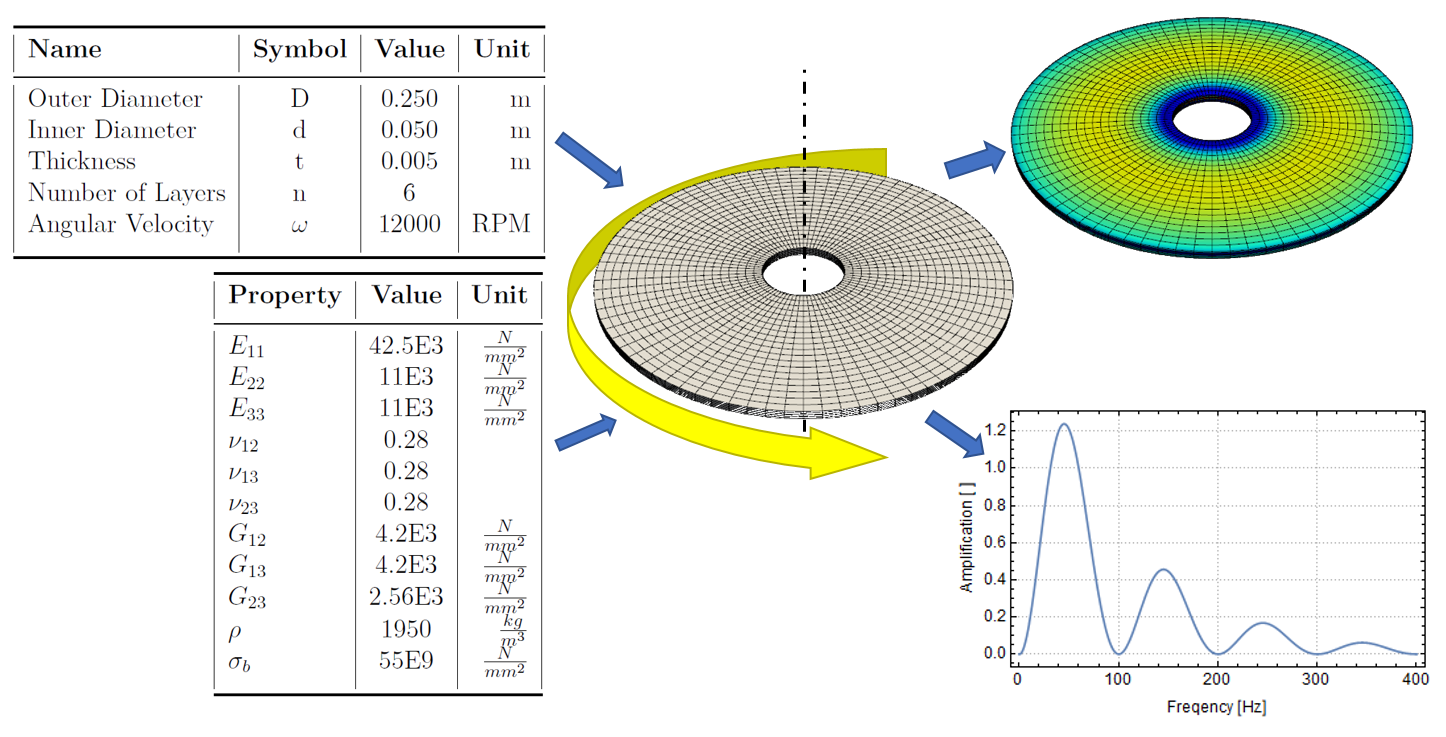
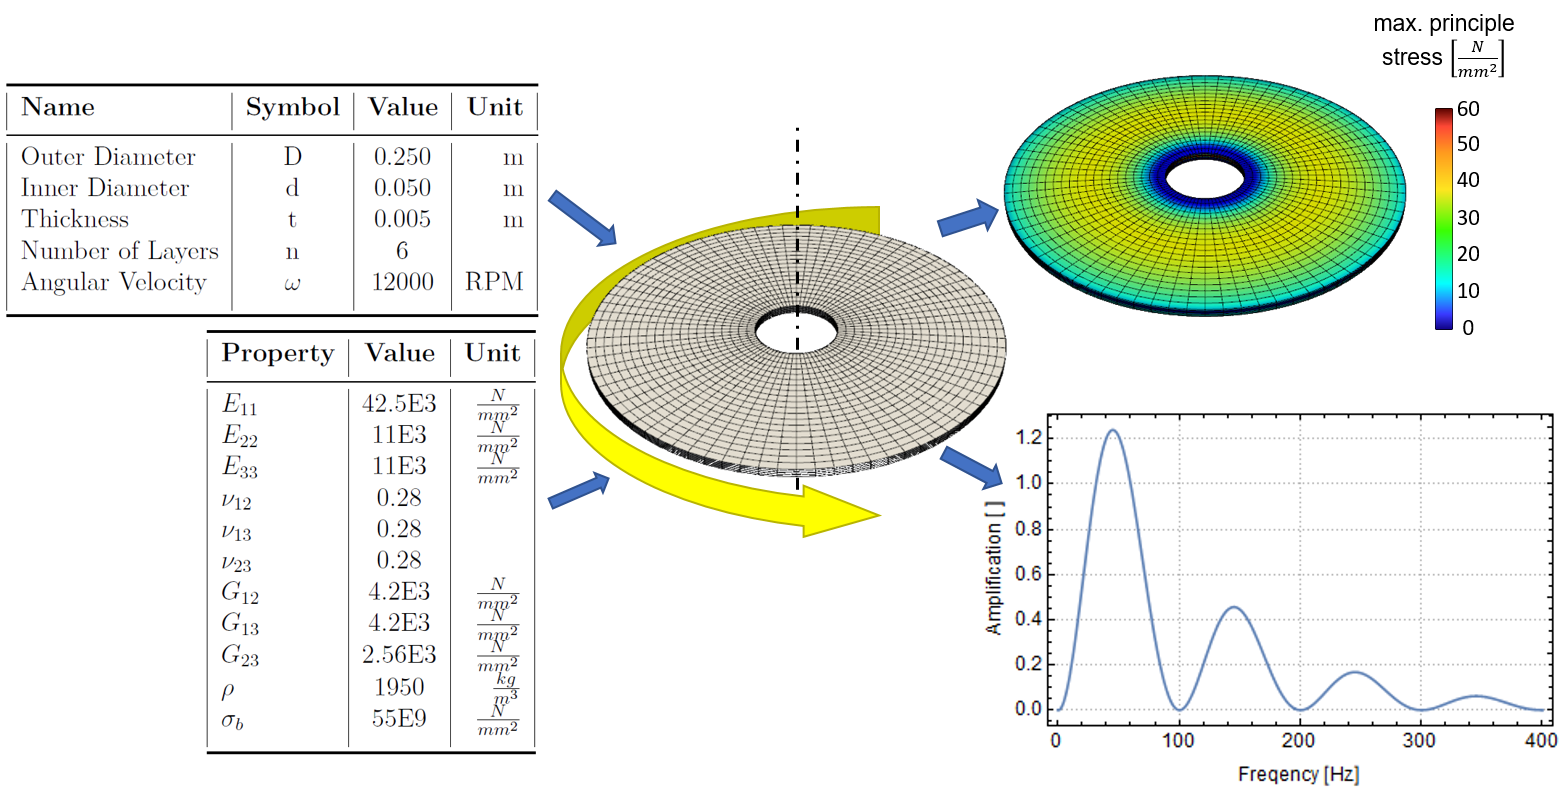
review

Changed region(s): [[0.0, 0.0, 1.0, 0.9986], [0.3734, 0.1872, 0.4357, 0.2497]]

diff --git a/src/results.tex b/src/results.tex
@@ -1,14 +1,17 @@
 \section{Results}
-The first capability of the introduced system to proof is 
-to solve complex interactions and iterations loops that are of a non-linear kind.
-Therefor a material hoists is chosen, 
-due to the fact that the motor weight adds 
+The finished system implementation can be found at Github under \emph{https://github.com/Modular-Design}.
+To support the multifunctional design process, the proposed solution has been focusing on two main capabilities,
+which are separately tested and demonstrated below.
+\subsection{Solving Complex Dependencies}
+The first capability of the introduced system is 
+to solve complex interactions and iterations loops that are characterized by a certain degree of non-linearity.
+Therefor a material hoists is chosen, due to the fact that the motor weight adds 
 to the overall weight of the lift (Fig. \ref{pic:lift_model}), 
-hence causing a simple iteration loop.
-With current methods eigenweight problems in the part design are often simplfied 
-by over estimating the total load on the motor.
-This over estimation garants a safty tolerance.
-In cases where mass reduction is crutial like in aircraft and space applications, this is often not an option.
+hence causing a dependency loop.
+With current methods, eigenweight problems in the part design are often simplified 
+by overestimating the total load on the motor.
+This results in a higher safety tolerance, but also increases the overall weight.
+In cases where mass reduction is crucial like in aircraft and space applications, this is often not an option.
 \begin{figure}[h]
     \centering
     \begin{subfigure}[b]{0.55\textwidth}
@@ -25,47 +28,50 @@ In cases where mass reduction is crutial like in aircraft and space applications
     \caption{\label{pic:lift} Designing of a material lift with the introduced framework.}
 \end{figure}\\
 Modelling the complex interaction of the hoist parts with the developed software allows to automatically update, change and test the current configuration.
-Therefor the simplified model is broken into several process, each describing the individual parts and their influence on different parameters of the hoist (Fig. \ref{pic:lift_solu}).\\
-The motor process in figure \ref{pic:lift} represents the selection process of a new motor, based on the minimum torque, RPM, power or maximum mass.
-Realistically, determining the motor properties would be done by searching in a database, but open motor databases have many restrictions.
-Therefor this program calculates a motor based on a simple motor model.\\
-The base of the hosit is represented by two systems:
-The CAD-Base changes a simplified CAD model (Fig. \ref{pic:lift}).
-The generated file is then  transfered to the simulation process.
-There the inserted loads are applied to the model and the relevant stresses are outputed.\\
-Against the usual material hosits with a high tolerance for failure,
-the system is with safety factor of 1.2 more on the lightweight spectrum.
-The developed system needed, depending on the initial configuration, up to 12 iteration (each iteration needs about 1 min to fully compute on a normal laptop) to find the solution.
-Designing a system with a eigenweight problem and a small safety normally takes a long time.
-Hence it is difficult to find suitable reference data, the following assumtion can be made.
+Following the guidelines for light weight design process, the simplified model is broken down into several process, each describing the individual parts and 
+their influence on different parameters of the hoist (Fig. \ref{pic:lift_solu}).\\
+The motor process in Figure \ref{pic:lift} represents the selection process of a new motor, 
+based on the minimum torque, RPM, power or maximum mass.
+Realistically, determining the motor properties would be conducted by searching in a database, 
+but open motor databases have many restrictions.
+To keep the system simple and intuitive 
+it was decided to determine the new motor based on a simple motor model.\\
+Besides the motor, the designing of the baseplate is crucial to the overall structural integrity.
+During the design process this is taken into account, by using two systems to represent separate aspects of the baseplate:\\
+The CAD-Base is used to digital model the plate and change certain dimensions (Fig. \ref{pic:lift}).
+This results in a CAD file being generated, which is then transferred to the simulation process.
+There the inserted loads are applied to the model and the relevant stresses are computed.\\
+The three main modules are distributed over the system and been accessed via a network communication.
+To help modeling the complex functional dependencies additional math modules are used.
+Due to lower hardware requirements, math modules are often provided locally.\\
+Additionally to the high number of interactions, the safety margin was reduced to a value of 1.2 to 
+artificially increase the number of iteration cycles.\\
+With the developed system, a solution was found, depending on the initial configuration, within 12 iteration (each iteration needs about 1 min to fully compute on a normal laptop).
 By assuming that each step takes 30 min per iterations, solving the same problem by hand would take up to 6h instead of 12 min by the program.\\
-But the seen time savings have to be taken with care.
-In the proposed problem it is assumed that both, manual and automated solutions uses the same infrastructure of pre-build simulations, constructions, etc. that are not taking into the overall time.
-Further, the automated process uses data interfaces to reuse the CAD-model in the simulation process.
-Other usecases might require custom conversion and representations interfaces, hence increasing the setup time of such a system.\\
-The material lift is not suited to show a complex optimization problem.
-Thats why a further use cases is introduced, 
-in which an optimal layer composition of a 
-high-speed glass fibre composite(GFC)-rotor has to be determined (Fig. \ref{pic:rotor_model}).
+While this assumption does not account for additional time, such as the model creation or implementing custom interfaces, 
+due to a lack of quantifiability, it can still be used to hint on the potential of major time savings. 
+
+\subsection{Global Optimization}
+The capability to compute optimal solutions to complex scenarios is shown 
+on a multilayered high-speed glass fibre reinforced plastics (GFRP)-rotor,
+in which an optimal layer composition has to be determined (Fig. \ref{pic:rotor_model}).
 High-speed composite rotors undergo inhomogeneous and variable stress states induced
-by centrifugal forces, which are mainly characterised by multi-axial tension and shear
-loads, \cite{filippatos_damage_2017}.
-The observed damage behavior is closely joint with the composition of the fibre-matrix, 
+by centrifugal forces, which are mainly characterized by multi-axial tension and shear
+loads \cite{filippatos_damage_2017}.
+The observed damage behaviour is connected with the composition of fibre and matrix, 
 what increases the structural complexity.
-Furthermore, compression loads can be caused by impact loads leading to inter-fibre failure and delamination \cite{Boehm2010, Thieme2014, Hufenbach2006}.
+Furthermore, compression loads can be caused by impact loads leading to 
+inter-fibre failure and delamination \cite{Boehm2010, Thieme2014, Hufenbach2006}.
 The dynamic response of rotors is further affected by the apparent stiffening from
 the applied centrifugal forces. 
 Consequently, the analysis and description of the damage
-and dynamic behavior usually requires more complex approaches for high-speed composite
+and dynamic behaviour usually requires more complex approaches for high-speed composite
 rotors than for similar stationary structures \cite{filippatos_damage_2017}.\\
-The interaction of load induced structural and damage behavior, lead to many opportunities for different optimization approaches. 
-This example is designed to show and validate the optimization of to properties which negate each other.
-Therefore, the rotor will be designed to sustain a certain angular velocity, while not starting to vibrate to the rotor oscillation.
-The rotor is a simple disk with an outer and inner diameter, a constant height.
-In this use case the rotor should, similar to \cite{Filippatos2021}, consist of only unsymmetrically layer compositions.
-Each layer consists of unidirectional GFK-fibre material,
-which can be oriented in radial or tangent direction.
-Further, it is assumed that the material will instantly break if the first principle stress reach a the point of rupture.
+The rotor is a simple disk which rotates with a constant angular velocity $\omega$.
+Further, the rotor should, similar to \cite{Filippatos2021}, consist of only unsymmetrically layer compositions.
+Each layer consists of unidirectional GFRP-fibre material,
+which can be oriented in radial ($r$) or tangent ($t$) direction.
+Due to simplicity the maximum stress criteria is used to determine the point of rupture.
 \begin{figure}[h]
     \centering
     \begin{subfigure}[b]{0.85\textwidth}
@@ -81,28 +87,32 @@ Further, it is assumed that the material will instantly break if the first princ
     \end{subfigure}
     \caption{\label{pic:rotor} Designing of a material lift with the introduced framework.}
 \end{figure}\\
-Simulating the development process in the developed software is done by 
-modelling the material and the rest of the rotor separately, as shown in figure \ref{pic:rotor_solution}.
+The interaction of different structural and damage driven optimization criteria, leads to many opportunities for different optimization approaches. 
+With eigenfrequency ($f$) and strength  two properties are selected which have negating dependencies to each other (Fig. \ref{pic:rotor_model}),
+due to a lower eigenfrequency requiring a lower stiffness.
+Reducing the stiffness in a certain layer can only be archived be changing the fiber direction, resulting in a drop of strength.\\
+Simulating the development process in the introduced software by 
+modelling the material and the rest of the rotor separately, as shown in Figure \ref{pic:rotor_solution}.
 This modular approach enables to quickly change the material properties and to reuse the material database.
-it further allows to switch easily between different materials and combinations.\\
+It further allows to switch easily between different materials and combinations.\\
 The generated solutions are grouped as following:
 \begin{enumerate}
-    \item suitable solutions (principle stress below rupture stress)
-    \item unsuitable solutions (principle stress over rupture stress)
+    \item suitable solutions (principle stress below failure stress ($\sigma_b$))
+    \item unsuitable solutions (principle stress over failure stress)
 \end{enumerate}
-From these two groups only the first suitable solutions are used further.
+From these two groups only the first suitable solutions are further used.
 A fitness value is then computed based on a function which represents the following rules to describe an optimal solution:
 \begin{enumerate}
-    \item the amount of the principle stress below the rupture stress does not matter
+    \item the amount of the principle stress below the failure stress does not matter
     \item a larger distance of the eigenfrequency to the frequency of the engine is better
 \end{enumerate}
 This was implemented by the following domain-specific fitness-functions.
-For the stress evaluation the fitness function is:
+For the maximum principle stress $\sigma$ evaluation the fitness function is:
 \begin{equation}
     \label{eq:fitness_stress}
     f_{\sigma}(\sigma)=2^{(\sigma-\sigma_{b})}=2^{(\sigma-55\frac{N}{mm^2})}
 \end{equation}
-and with:
+and with the frequency of the rotor $f_{r}$ being:
 \begin{equation}
     \label{eq:rotation_frequency}
     f_{r}=\frac{\omega}{2\pi}=\frac{RPM}{60}
@@ -112,19 +122,21 @@ the fitness function, evaluating the eigenfrequencies, is:
     \label{eq:fitness_freq}
     f_{f}(f)=\frac{5 f^5 \exp{\left(-\left((\frac{f}{f_r}\right)^5 + 1\right)}}{5 f_r^5}
 \end{equation}
-Both domain-specific fitness-functions are then combined in a linear function 
-and then scaled seperatly with the following function:
+Both domain-specific fitness-functions are then combined to a linear function 
+and then scaled separately with the following function:
 \begin{equation}
     \label{eq:fitness_final}
     f(\sigma,f)=f_{\sigma}(\sigma)+10f_{f}(f)
 \end{equation}
-Overall the optimizer tested 56 of 62 possible permutations.
-Some variants could have been reduced, by considering that two layer compositions that can be mapped into each other by mirroring one.
-For example the two configurations $[r/r/t/r/r/t]$ and $[t/r/r/t/r/r]$ have the eigenfrequency and maximum stress.
-The cleared permutations are shown with the according stress, eigenfrequency and final fitness score in figure \ref{pic:rotor_solution}.\\
-Depending on the used fitness function the results can vary.\\ 
-Repeating the same optimization process with other fitness functions lead to faster results due to amjority of cases alrady computed.
+Overall the optimizer tested 56 of 62 possible permutations, which took about 15 min on a normal laptop.
+After accounting for creating the model, which took about a week, the new methodology shows a great reduction in work time, 
+when compared with the six month which was spend to create \cite{Filippatos2021}.
+Some variations could have been reduced, by considering that two layer compositions that can be mapped into each other by mirroring one.
+For example the two configurations $[r/r/t/r/r/t]$ and $[t/r/r/t/r/r]$ have similar eigenfrequency and maximum stress.
+The cleared permutations are shown with the according stress, eigenfrequency and final fitness score in Figure \ref{pic:rotor_solution}.\\
+While the results can vary depending on the used fitness function, the optimum in these particular case is $[r/r/r/t/r/t]$.
+With a maximum principle stress $55 \frac{N}{mm^2}$ of and an eigenfrequency of $234 Hz$.\\ 
+Repeating the same optimization process with other fitness functions lead to faster results due to majority of cases already computed.
 But for larger solutions spaces the break conditions, 
 that determine when the optimizer determines if an optimal solution is found,
-could be calibrated to reduce the number of computed variants significantly.\\
-The developed software can be downloaded at Github under \emph{https://github.com/Modular-Design}.
+could be calibrated to reduce the number of computed variants significantly.

diff --git a/src/conclusion.tex b/src/conclusion.tex
@@ -1,22 +1,15 @@
 \section{Conclusion}
-
-Lightweight design requires highly optimized components.
-These components therefore often need to go through a large amount of optimization cycles that are expensive and time consuming.
-Therefor a proof of concept was introduced, which implements state of the art algorithm to increase to maximize the automation during the development process.
-Further, the POC uses a scalable API system to enable information flow across development domains and 
-In order to automate these steps, a software tool was introduced that can solve a given information based network of different processes.
-Therefore, systems and solutions from disciplines such as graph theory and model representation in simulations were adapted to illustrate the development process.
-In this work, a solving algorithm was introduced with which the connected sub-process can be processed, taking into account the interaction between the processes.
-Further, the software was implemented to prove the predicted improvements in a high optimized, multi-domain environment.\\
-In order to enable a broad use of the developed tool, the architecture was designed as modular as possible.
-This meant that every simulation program, CAD-tool and digital process could be integrated into the design process.
-Additionally, this approach also enables the software to easily be implemented in existing workflows, as existing models, files, etc. can be reused outside the developed software.
-Further, the software uses a server-client network architecture to enable the specialists to collaborate on problems with with multiple domains and to outsource time-consuming operations to specialized servers.
-Two examples demonstrate the capabilities for solving complex multi-domain problems and for finding optimal solutions.\\
-The successful test shows a great work relief and time savings.
-However, the developed tool has certain limitations and requires the ability to design products that some engineers are unfamiliar with.
-For example, it is difficult, if not impossible, to implement manufacturing processes and experimental verification into the automatic design approach.
-Additionally, engineers need to be able to express the value of a product, not necessary in relation to cost, as a mathematical formula so that the program can determine which solution is better.\\
-Given the enormous potential of software driven solutions such as the tool developed, it is very likely that these kind of tools will become an essential part of every engineer's work routine.
-However, improvements still made to be in terms of useability, performance, security, stability, and plugin support.\\
-\input{src/acknowledgement.tex}
+Designing multifunctional and lightweight products is time consuming work, due to a high number of functional dependencies that have to be taken into account.
+In this article a digital methodology is introduced, 
+which aims to reduce the development time and 
+increases the overall product quality by enabling multi domain optimizations.
+The introduced system used the advantages of a complete digitizes, graph-based process representation.
+It enables specialists to collaborate on problems with multiple domains and allows to outsource time-consuming operations to specialized servers.\\
+With an heuristic approach the software tries to compute a stable configuration of the modeled interactions.
+In the first example, this capability was used to solve the complex interactions of design problem which has to take the eigenweight into account.
+It showed how different design process could be linked together, without introducing a new file format.\\
+Additionally, given a ranking of multiple solution is described by a fitness function, the developed software can find the global optimum.
+This was proven with the second example, where the system found the optimal layer constellation of an high-speed glass fiber reinforced plastics rotor.
+It further demonstrated how multiple optimization goals can be taken into account.\\
+While the test showed room for improvements in terms of performance, stability and user friendliness,
+they also shows a major potential for great work relief and time savings.

diff --git a/src/method.tex b/src/method.tex
@@ -1,11 +1,11 @@
 \section{Method}
 The development of a methodology that supports the complex interactions of multifunctional designs can structured in:
-\begin{itemize}
+\begin{enumerate}
     \item model representation,
     \item system interfaces,
     \item solution strategy,
     \item additional capabilities.
-\end{itemize}
+\end{enumerate}
 As a sufficient and intuitive model representation the directed graph representation has been used for similar purposes.
 Thats why the proposed system will also relay on this methodology 
 to represent the interactions in a multi-domain environment.\\
@@ -30,20 +30,20 @@ A major issue, which arises from the complex interactions, is that by solving on
 This means, that a solution is found, when a stable configuration, where no further changes are introduced, is reached.\\
 Because finding a general solution is proven to be Turning-complete and therefore impossible to find deterministically, 
 a set of rules to simplify this process are introduced:
-\begin{itemize}
+\begin{enumerate}
     \item the system has not converged, when after n solving runs the outputs values still change,
     \item an output value is changed if the value differs from the previous update call,
     \item a solver run is done if every node is updated at least once.
-\end{itemize}
+\end{enumerate}
 With this simplifications it is possible to uses the heuristic approach to approximate the solution.
 However, this approach requires an intelligent ranking of the nodes.
 For that purpose the following rules are introduced:
-\begin{itemize}
+\begin{enumerate}
     \item nodes with no connected inputs are starting points and should always be at the beginning of an update progress,
     \item nodes which need more time to compute should update as rarely as possible,
     \item nodes where a majority of all inputs have already changed have priority,
     \item nodes with fewer connections have less dependencies and therefor have priority.
-\end{itemize}
+\end{enumerate}
 This rule-based approach enables a fast deterministic updating process.\\
 After solving all system dependencies, multiple different permutations of the system inputs can be used to find an optimal system environment.
 Population based approaches as swarm and evolutionary based optimization methods are for that purpose recommended.

diff --git a/src/abstract.tex b/src/abstract.tex
@@ -1,8 +1,9 @@
 \begin{abstract}
-A central process in composite lightweight engineering is the design of different fibre-reinforced parts. 
-Some sub-processes such as the construction and numerical failure analysis 
-as well as certain parts of the design process itself can be significantly improved 
-using modern software tools. 
+A central process in composite lightweight engineering is the design of 
+different fibre-reinforced parts. 
+Certain steps during the design process have the potential 
+that the overall workload can significantly be reduced, 
+by the use of modern software tools.
 This often means that a compromise between optimization and 
 increasing development costs must be found in order to balance 
 structural complexity, number of design iteration loops and 

diff --git a/esan.tex b/esan.tex
@@ -30,6 +30,7 @@
 \input{src/results.tex}
 %\input{src/discussion.tex} test
 \input{src/conclusion.tex}
+\input{src/acknowledgement.tex}
 % 
 \printbibliography
 \end{document}
